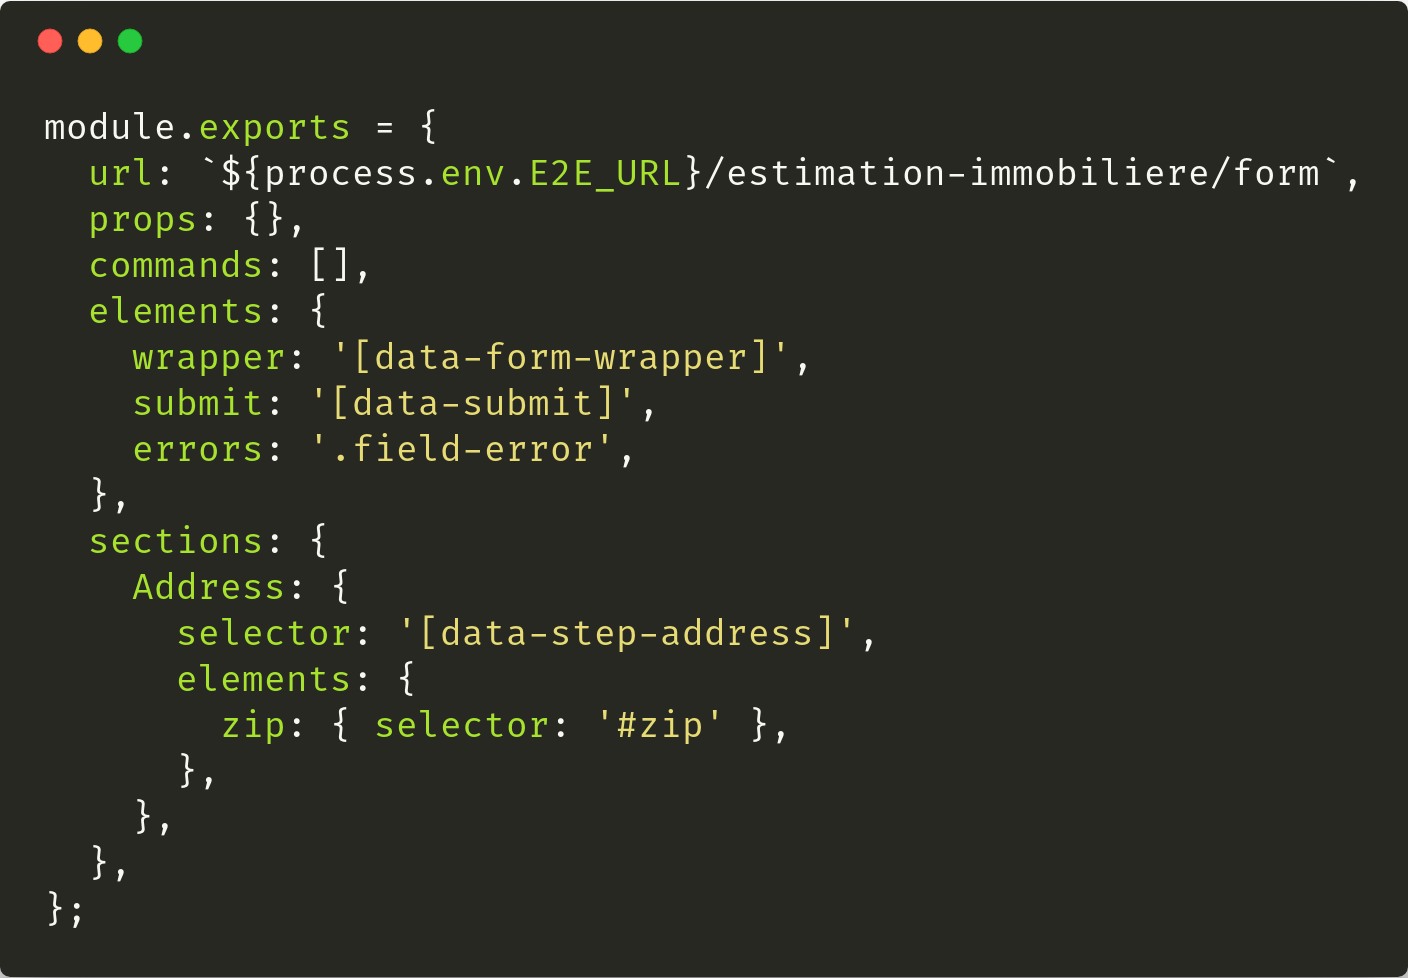
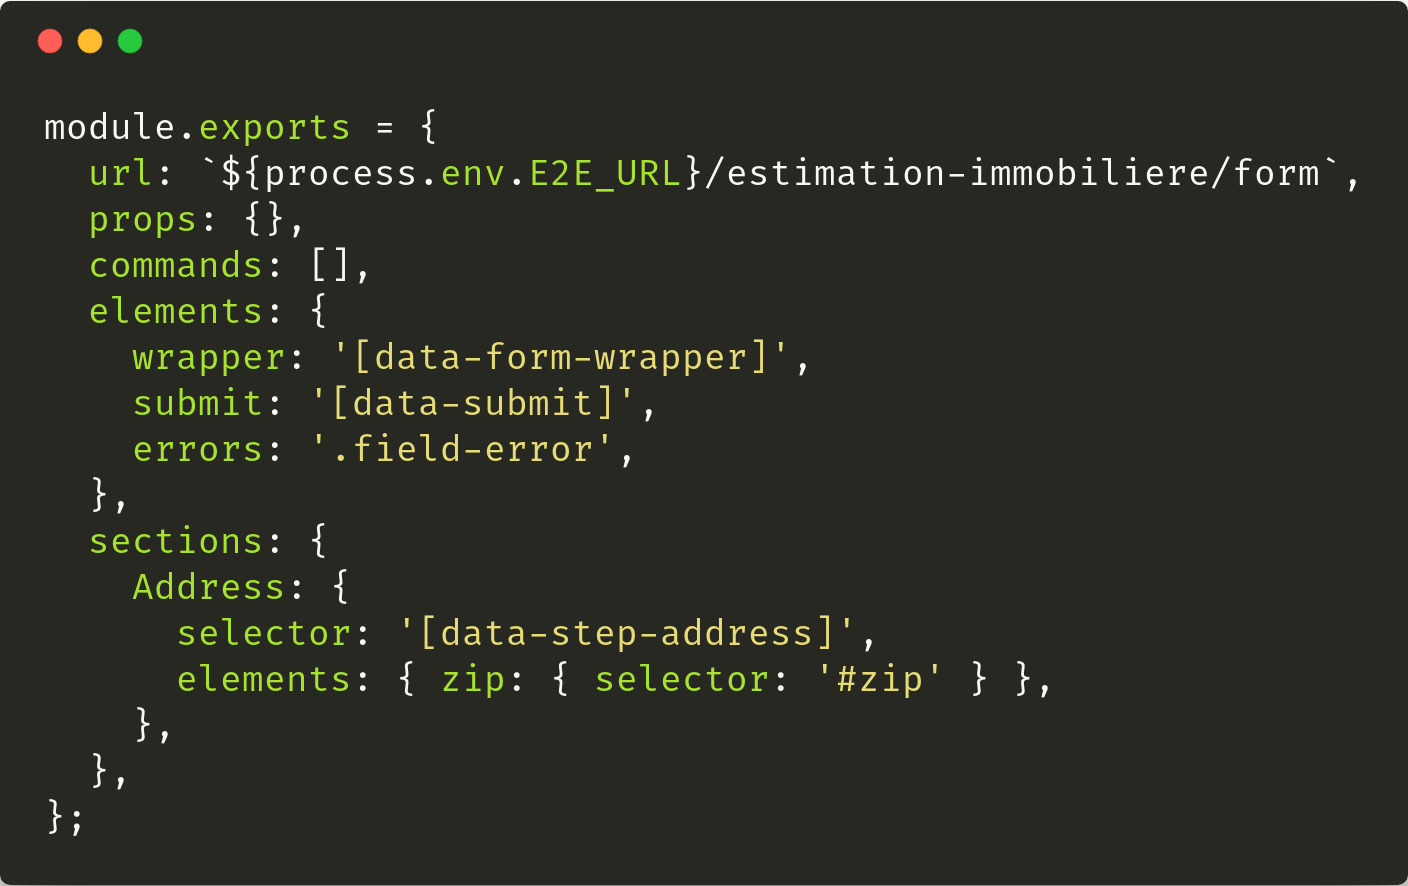
fixing some pics and improving details

diff --git a/www/doc/indus_e2e/nightwatch_page.js b/www/doc/indus_e2e/nightwatch_page.js
@@ -10,9 +10,7 @@ module.exports = {
   sections: {
     Address: {
       selector: '[data-step-address]',
-      elements: {
-        zip: { selector: '#zip' },
-      },
+      elements: { zip: { selector: '#zip' } },
     },
   },
 };

diff --git a/www/doc/indus_e2e/index.md b/www/doc/indus_e2e/index.md
@@ -20,7 +20,7 @@
 
 ## Que teste-on ?
 
-L'intégralité de la *stack* applicative dans une configuration au plus proche de celle de production
+L'intégralité de la *stack* applicative dans une configuration et une utilisation au plus proche de la production.
 
 ![](popcorn.gif)
 
@@ -33,29 +33,39 @@ L'intégralité de la *stack* applicative dans une configuration au plus proche 
 
 ![](selenium-logo.png)
 
+* Open-source et proche du W3C
+* Très largement répandu
+* Produit mature
 
-> Pourquoi pas `cypress`, `puppeteer` ou `Ranorex` ?
+
+Pourquoi pas [`cypress`](https://docs.cypress.io/guides/guides/launching-browsers.html#Unsupported-Browsers) ou `puppeteer` ?
 
 ![](browsers.png)
 
 
-![](nightwatch.png)
+[![](nightwatch.png)](http://nightwatchjs.org)
 
 
 * Simplification de l'interface W3C WebDriver
 * *Framework* i.e. "tout inclus"
 * Facile à étendre
 
-> alternatives : `webdriver.io`, `CodeceptJS`
+
+Alternatives possibles
+
+* [`webdriver.io`](http://webdriver.io)
+* [`CodeceptJS`](https://codecept.io)
+* [`RobotFramework](http://robotframework.org)
 
 
-#### Page & Section
+#### NightwatchJS Key Feature : Page & Section
 
 
 * Décrire sa page (url, éléments)
     * Syntaxe des `querySelector`
-    * Ajout de variables utilisable lors des tests
+    * Ajout de variables utilisables lors des tests
 * Décrire les sections de la même façon
+* Utilisation très simple de ces références ensuite
 
 
 [`pages/EstimaForm.js`](/doc/indus_e2e/nightwatch_page.js)
@@ -81,20 +91,20 @@ L'intégralité de la *stack* applicative dans une configuration au plus proche 
 Autres commandes ajoutées
 
 * `backToFirstWindow`
+* `goToLastWindow`
 * `changeDispatcher`
 * `clearCookieBanner`
 * `compareScreenshot`
-* `goLastWindow`
 * `isResponsive`
 * `scrollToElement`
 * `signin`
 * `waitFor`
 
 
-![](docker.png)
+![](docker.png) & ![](selenium-logo.png)
 
 
-* Chrome et Firefox dans une *sandbox*
+* *Sandboxing* local de votre navigateur
 * Debug via VNC
 
 ```
@@ -104,13 +114,17 @@ open vnc://localhost:secret@localhost:5900
 
 * Permet de tester en tâche de fond
 * Permet de tester différentes tailles d'écran
-  * ⚠ version utilisée (`3.7` ok)
+  * ⚠ version utilisée, e.g. la `3.7` est ok
 
 
-### Browserstack
+[![](browserstack.png)](https://www.browserstack.com)
 
 * "Ferme" de navigateurs requêtables via Selenium
-* Plus lent que du local mais plus riche en possibilités
+* Plus lent que du local mais plus riche en navigateurs
+
+
+* Fourni un replay vidéo du test pour du debug
+* Le [Local Testing](https://www.browserstack.com/local-testing) offre la possibilité de router tout votre traffic par votre machine
 
 
 ### CI Jenkins
@@ -154,10 +168,11 @@ Ce sont les tests les plus instables possibles.
 
 Lent même en parallélisant
 
-* En moyenne 8 minutes
-* Environ 150 tests
-* 20 *jobs* en parallèle
-* Près de 2 000 vérifications effectuées
+* En moyenne **8 minutes**
+* Environ **150 tests**
+* Test **3 parcours utilisateur** critiques
+* **20 *jobs*** en parallèle
+* Près de **2 000 vérifications** effectuées
 
 
 Instabilité des navigateurs dans des conteneurs
@@ -200,9 +215,7 @@ Vous pouvez vous en servir pour monitorer la prod
 # Littérature
 
 * [Why e2e testing is important for your team ?](https://medium.freecodecamp.org/why-end-to-end-testing-is-important-for-your-team-cb7eb0ec1504)
-* [NightwatchJS](http://nightwatchjs.org)
 * [Google Testing Blog](https://testing.googleblog.com)
-* [TestPyramid by Martin Flower](https://martinfowler.com/bliki/TestPyramid.html)
 
 
 ## Merci
